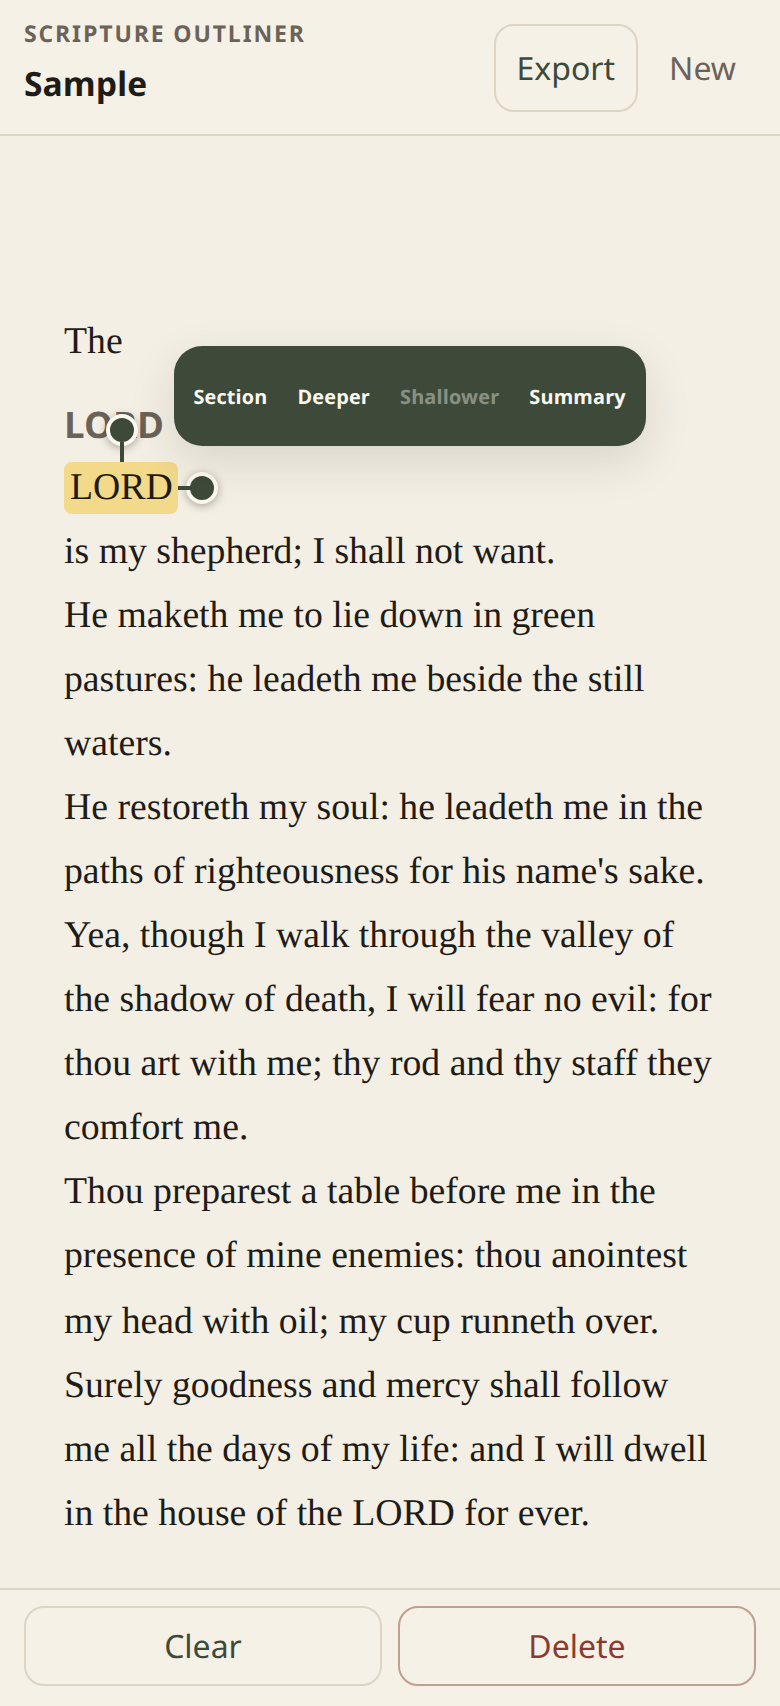
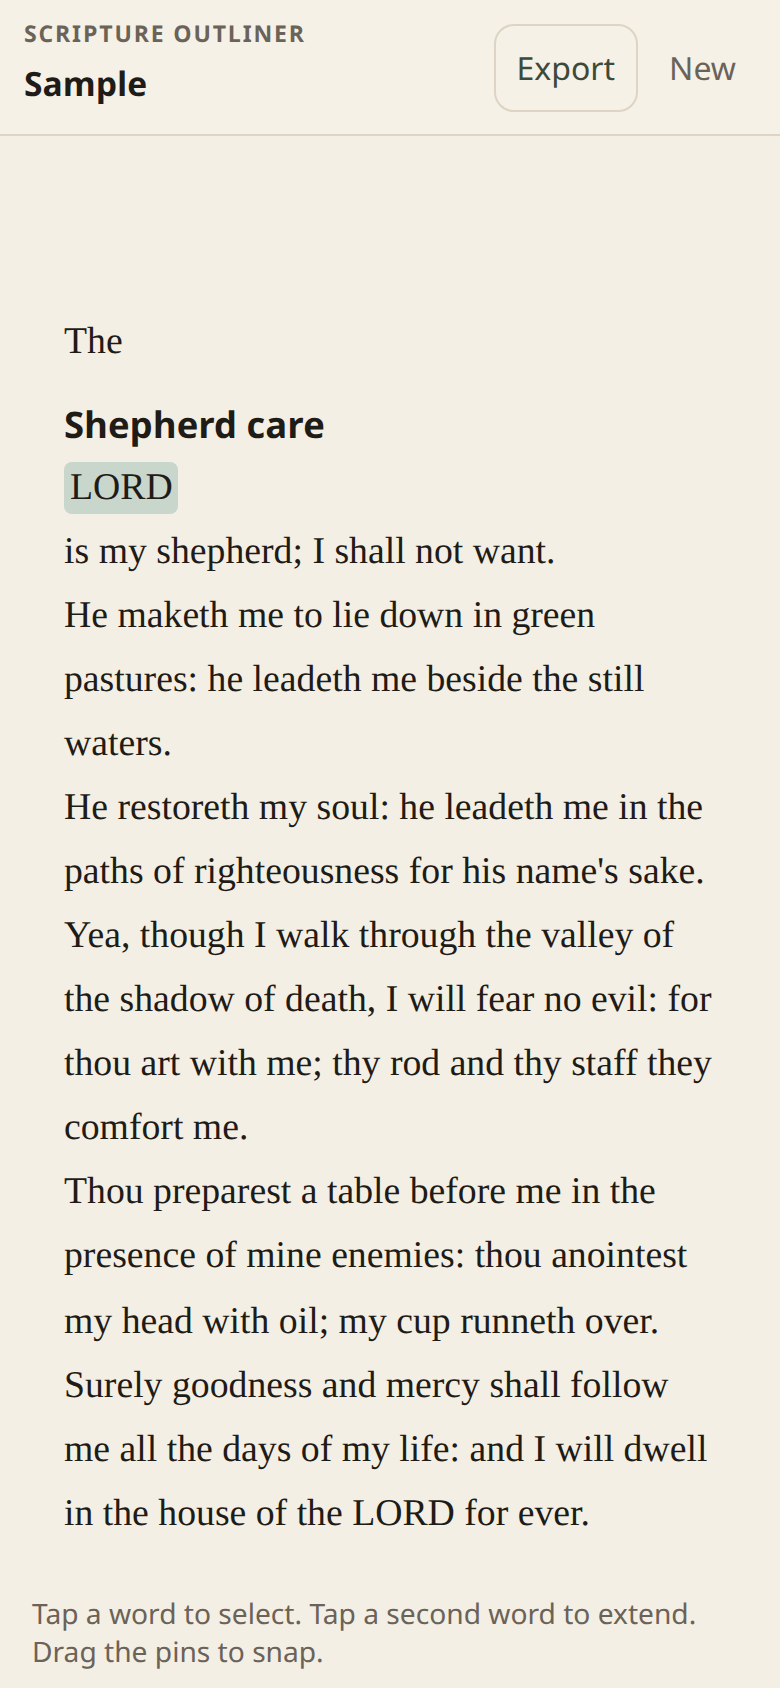
Show section headers only after a Summary (#9)
New Section and Deeper ranges no longer render empty or placeholder headers. A bold header appears only when segment.summary is non-empty.

diff --git a/src/segments.ts b/src/segments.ts
@@ -286,8 +286,9 @@ export function outlineForest(segments: readonly Segment[]): OutlineNode[] {
 }
 
 /**
- * Flatten the passage into headers and word runs. Word-run `depth` is the
- * containing segment's depth, or -1 when the words are not inside a section.
+ * Flatten the passage into headers and word runs. Headers are omitted when
+ * `segment.summary` is empty. Word-run `depth` is the containing segment's
+ * depth, or -1 when the words are not inside a section.
  */
 export function passageParts(
   wordCount: number,
@@ -314,7 +315,9 @@ export function passageParts(
           depth,
         });
       }
-      parts.push({ kind: "header", segment: node.segment });
+      if (segmentHasHeader(node.segment)) {
+        parts.push({ kind: "header", segment: node.segment });
+      }
       walk(node.children, node.segment.start, node.segment.end, node.segment.depth);
       cursor = node.segment.end + 1;
     }
@@ -356,12 +359,17 @@ export function snippet(
   return `${slice.slice(0, maxWords).join(" ")}…`;
 }
 
+/** True when the range should show a bold header (non-empty summary). */
+export function segmentHasHeader(segment: Segment): boolean {
+  return segment.summary.trim().length > 0;
+}
+
 export function headerLabel(
   words: readonly { text: string }[],
   segment: Segment,
 ): { text: string; placeholder: boolean } {
   const text = segment.summary.trim();
-  if (text.length > 0) {
+  if (segmentHasHeader(segment)) {
     return { text, placeholder: false };
   }
   return {

diff --git a/src/app.ts b/src/app.ts
@@ -11,7 +11,6 @@ import {
   createDocument,
   createSegment,
   exactSegment,
-  headerLabel,
   highlightDepthForWord,
   innermostCoveringSegment,
   insertSegment,
@@ -228,7 +227,7 @@ export function mount(root: HTMLElement): void {
     for (const part of parts) {
       switch (part.kind) {
         case "header": {
-          refs.passage.append(sectionHeader(current, part.segment));
+          refs.passage.append(sectionHeader(part.segment));
           break;
         }
         case "words": {
@@ -891,21 +890,14 @@ function shellHtml(): string {
   `;
 }
 
-function sectionHeader(
-  doc: Document,
-  segment: Document["segments"][number],
-): HTMLElement {
+function sectionHeader(segment: Document["segments"][number]): HTMLElement {
   const level = Math.min(6, Math.max(2, segment.depth + 2));
   const el = document.createElement(`h${level}`);
   el.className = "section-header";
   el.dataset.depth = String(segment.depth);
   el.dataset.segmentId = segment.id;
   el.setAttribute("data-testid", "section-header");
-  const label = headerLabel(doc.passage.words, segment);
-  el.textContent = label.text;
-  if (label.placeholder) {
-    el.dataset.placeholder = "true";
-  }
+  el.textContent = segment.summary.trim();
   return el;
 }
 

diff --git a/src/styles.css b/src/styles.css
@@ -314,10 +314,6 @@ button.danger {
   padding-left: calc(6 * var(--indent));
 }
 
-.section-header[data-placeholder="true"] {
-  color: var(--muted);
-}
-
 .section-header[aria-current="true"] {
   text-decoration: underline;
   text-decoration-thickness: 2px;

diff --git a/.cursor/skills/verify-scripture-outliner/features/section-deeper-summary.md b/.cursor/skills/verify-scripture-outliner/features/section-deeper-summary.md
@@ -1,19 +1,19 @@
 # Section, deeper, and summary
 
-With a selection, the user marks a depth-0 **Section**, nests with **Deeper** / **Shallower**, or writes a **Summary** heading for that range. Headers appear in the passage. Nothing is generated.
+With a selection, the user marks a depth-0 **Section**, nests with **Deeper** / **Shallower**, or writes a **Summary** heading for that range. A header appears only after a non-empty Summary. Nothing is generated.
 
 ## Sub-features
 
-- `section-create` adds a depth-0 bold header above the current selection.
-- `deeper-create` adds a nested header (depth 1) for an inner selection.
-- `summary-write` opens the dialog, saves typed text, and shows it on the header.
+- `section-create` marks a depth-0 range. No header is created or shown.
+- `deeper-create` nests an inner range (depth 1). No header until that range has a Summary.
+- `summary-write` opens the dialog, saves typed text, and shows a bold header for that range.
 - `segment-delete` removes the segment that exactly matches the selection.
 
 ## How to get to it (user POV)
 
 - Select a word range in the text.
 - Choose **Section**, **Deeper**, **Shallower**, or **Summary** on the toolbar attached to the highlight (primary). Clear / Delete stay on the sticky bar.
-- Tap a header to reselect its range.
+- After a Summary, tap the header to reselect its range.
 - Choose **Delete** when the selection matches a segment exactly.
 
 ## Driving it with verify-so
@@ -23,15 +23,15 @@ Preconditions:
 - Sample loaded.
 - No segments yet.
 
-- **Section.** Select words 1–6, choose **Section**. Run `page.getByTestId("word").nth(1).click()`, `page.getByTestId("word").nth(6).click()`, `page.getByTestId("action-section").click()`. One `section-header` with `data-depth="0"`. Empty summary still shows a bold placeholder snippet (`data-placeholder="true"`).
-- **Deeper.** Shrink to an inner word then extend inside the section, choose **Deeper**. Run `page.getByTestId("word").nth(3).click()`, `page.getByTestId("word").nth(5).click()`, `page.getByTestId("action-deeper").click()`. A second `section-header` has `data-depth="1"`.
-- **Summary.** With a selection, choose **Summary**, type `Shepherd care`, choose **Save**. Run `page.getByTestId("action-summary").click()`, `page.getByTestId("summary-field").fill("Shepherd care")`, `page.getByTestId("summary-save").click()`. A `section-header` contains that text and is not a placeholder. The dialog is closed.
-- **Delete.** Reselect the exact section range, choose **Delete**. Run `page.getByTestId("action-delete").click()`. That header is gone. **Delete** is disabled when the selection is not an exact segment.
-- **Proof.** `drive.mjs section-deeper-summary` writes `evidence/section-deeper-summary/outline.png` showing at least two depths and the saved summary.
+- **Section.** Select words 1–6, choose **Section**. Run `page.getByTestId("word").nth(1).click()`, `page.getByTestId("word").nth(6).click()`, `page.getByTestId("action-section").click()`. Zero `section-header` nodes. **Delete** is enabled (exact segment). Capture `after-section.png`.
+- **Deeper.** Shrink to an inner word then extend inside the section, choose **Deeper**. Run `page.getByTestId("word").nth(3).click()`, `page.getByTestId("word").nth(5).click()`, `page.getByTestId("action-deeper").click()`. Still zero `section-header` nodes.
+- **Summary.** With the inner selection, choose **Summary**, type `Shepherd care`, choose **Save**. Run `page.getByTestId("action-summary").click()`, `page.getByTestId("summary-field").fill("Shepherd care")`, `page.getByTestId("summary-save").click()`. One `section-header` at `data-depth="1"` contains that text. The dialog is closed. Choose **Clear**, then capture `after-summary.png`.
+- **Delete.** Reselect the exact inner range, choose **Delete**. Run `page.getByTestId("action-delete").click()`. That header is gone. **Delete** is disabled when the selection is not an exact segment.
+- **Proof.** `drive.mjs section-deeper-summary` writes `evidence/section-deeper-summary/after-section.png` (no header) and `after-summary.png` (bold header after Summary).
 
 ## Gotchas
 
-- **Summary** on a new range also creates a segment (depth from `suggestedDepth`). Assert the header text, not only that the dialog closed.
+- **Summary** on a new range also creates a segment (depth from `suggestedDepth`) and is the only action that shows a header. Assert the header text, not only that the dialog closed.
 - **Delete** no-ops unless the selection exactly matches a segment. Partial overlaps do not enable a useful delete.
 - Choosing **Section** on an existing exact segment sets depth 0 instead of duplicating the header.
 - **Shallower** is disabled when there is no exact segment or the segment is already depth 0.

diff --git a/.cursor/skills/verify-scripture-outliner/features/inline-outline.md b/.cursor/skills/verify-scripture-outliner/features/inline-outline.md
@@ -7,14 +7,14 @@ The passage is the outline. Section summaries render as bold headers above their
 - `header-inline` shows a bold depth-0 header in the passage above the section body.
 - `nested-indent` shows a depth-1 header on its own line, indented under the parent.
 - `depth-two` shows a depth-2 header indented further than the subsection.
-- `placeholder-header` keeps an empty summary visible as a bold snippet of the range.
+- `summary-header-only` shows no header after Section/Deeper until a non-empty Summary is saved.
 
 ## How to get to it (user POV)
 
 - Load the sample (or import text).
 - Select a wide range and choose **Section**.
 - Select an inner range and choose **Deeper**. Repeat on a still-inner range for depth 2.
-- Optional: **Summary** to replace placeholder snippets with typed headings.
+- **Summary** after each mark so the bold header appears.
 
 ## Driving it with verify-so
 
@@ -22,7 +22,7 @@ Preconditions:
 
 - Sample loaded. Word id `0` is `The`. Words `0–24` are the first two verses (`The` … `waters.`). Words `9–24` are the second verse. Words `18–24` are `he leadeth me beside the still waters.`
 
-- **Section header.** Select `data-word-id` 0 then 24, choose **Section**, then **Summary** `The LORD is shepherd`. Run `page.locator('[data-word-id="0"]').click()`, `page.locator('[data-word-id="24"]').click()`, `page.getByTestId("action-section").click()`, fill and save summary. One `section-header[data-depth="0"]` is visible in `passage`, bold, above the body words.
+- **Section header.** Select `data-word-id` 0 then 24, choose **Section**. No `section-header` yet. Then **Summary** `The LORD is shepherd`. Run `page.locator('[data-word-id="0"]').click()`, `page.locator('[data-word-id="24"]').click()`, `page.getByTestId("action-section").click()`, fill and save summary. One `section-header[data-depth="0"]` is visible in `passage`, bold, above the body words.
 - **Subsection.** Tap word 9 (shrinks the selected section to that word), tap word 24, choose **Deeper**, **Summary** `Green pastures`. A `section-header[data-depth="1"]` sits on its own line with greater left padding than depth 0.
 - **Subsubsection.** Tap word 18, tap word 24, choose **Deeper**, **Summary** `Still waters`. A `section-header[data-depth="2"]` is present. Depths include `"0"`, `"1"`, and `"2"`.
 - **Clear chrome.** Choose **Clear** so pins and the toolbar do not cover headers.
@@ -31,7 +31,6 @@ Preconditions:
 ## Gotchas
 
 - Tapping a word inside an already-selected covering segment shrinks to that word (so you can mark an inner range). Do not tap a word outside the parent if you intend to nest.
-- Headers rebuild the passage DOM. Wait for `section-header` after each mark before asserting counts.
-- Placeholder headers use `data-placeholder="true"` and a snippet of the range; after Summary that attribute is gone.
+- Headers rebuild the passage DOM. Wait for `section-header` after each **Summary** save, not after Section/Deeper.
 - There is no outline list and no view toggle. Do not look for `outline-row` or `view-split`.
 - Inner overflow does not expand a `fullPage` screenshot. Set the passage pane `scrollTop` to 0 before capturing nested headers.

diff --git a/README.md b/README.md
@@ -58,7 +58,7 @@ Install and the service worker require a secure context: `localhost` or HTTPS.
 
 1. Paste text, or tap **Load sample**.
 2. Tap a word to select it. Tap a second word to extend the range. Drag the two pins; they snap to word edges only.
-3. **Section** marks a depth-0 heading for the range. **Deeper** / **Shallower** change nesting. **Summary** edits the bold header (empty still shows a placeholder snippet).
+3. **Section** marks a depth-0 range. **Deeper** / **Shallower** change nesting. **Summary** writes the bold header. A header appears only after a non-empty Summary.
 4. Headers sit in the passage above their body. Nested ranges start on a new line and indent by depth.
 5. Reload: the current document is restored from `localStorage`. **Export** downloads Markdown with ATX headers by depth (and copies it when the clipboard is available).
 
@@ -70,8 +70,8 @@ Use device mode at **390×844** (or an actual phone). After `npm run dev`:
 2. Tap **The**. Selection is that word only; start and end pins sit on its edges.
 3. Tap **want.** The range is word-aligned (`The` … `want.`), not a character highlight.
 4. Drag the end pin onto **shepherd;** — it snaps to that word, never mid-token.
-5. **Section**, then select an inner phrase and **Deeper**. A bold header appears above the section; the subsection starts on its own indented line.
-6. **Deeper** again on a still-inner range (depth 2). **Summary**, type a sentence, Save. The header shows your text; an empty header keeps a bold snippet placeholder.
+5. **Section**, then select an inner phrase and **Deeper**. No header yet. The subsection starts on its own indented line.
+6. **Deeper** again on a still-inner range (depth 2). **Summary**, type a sentence, Save. The bold header appears above that range. Empty summaries do not render a header.
 7. Highlights use stacked shades; selection fill stays one continuous bar. There is no Text / Outline / Split toggle.
 8. Reload the tab. Title, nested segments, and summaries return.
 9. **Export** produces a `.md` file with `#` title and `##` / `###` / `####` outline headings.

diff --git a/.cursor/skills/verify-scripture-outliner/features/persistence.md b/.cursor/skills/verify-scripture-outliner/features/persistence.md
@@ -5,7 +5,7 @@ The current document (title, words, segments, selection) is saved to `localStora
 ## Sub-features
 
 - `persist-save` writes `scripture-outliner.document.v1` after import and after Section.
-- `persist-reload` restores title, words, and inline headers after a full reload.
+- `persist-reload` restores title, words, segments, and any Summary headers after a full reload.
 - `persist-new` **New** (after confirm) returns to import and clears storage.
 
 ## How to get to it (user POV)
@@ -19,10 +19,10 @@ Preconditions:
 
 - Preview origin is the launched `127.0.0.1` port (storage is origin-scoped).
 
-- **Save.** Load sample, select a word, choose **Section**. Run `drive.mjs persistence` or the same clicks. `page.evaluate(() => localStorage.getItem("scripture-outliner.document.v1"))` is non-null JSON with `passage.title` equal to `Sample` and `segments.length >= 1`. Depth is a number (legacy `0 | 1` still parses).
-- **Reload.** `page.reload()`. `title-input` is still `Sample`. At least one `section-header` exists. `import-view` is hidden.
+- **Save.** Load sample, select a word, choose **Section**. Run `drive.mjs persistence` or the same clicks. `page.evaluate(() => localStorage.getItem("scripture-outliner.document.v1"))` is non-null JSON with `passage.title` equal to `Sample` and `segments.length >= 1`. Depth is a number (legacy `0 | 1` still parses). Zero `section-header` nodes until Summary is saved.
+- **Summary then reload.** Write a Summary, then `page.reload()`. `title-input` is still `Sample`. The saved `section-header` exists. `import-view` is hidden.
 - **New.** Choose **New** and accept the confirm. Run `page.getByTestId("new-document").click()` with a dialog handler that accepts. `import-view` is visible. Storage key is gone.
-- **Proof.** `drive.mjs persistence` writes `evidence/persistence/reload.png` after reload, with title and an inline header still present.
+- **Proof.** `drive.mjs persistence` writes `evidence/persistence/reload.png` after reload, with title and the Summary header still present.
 
 ## Gotchas
 

diff --git a/.cursor/skills/verify-scripture-outliner/SKILL.md b/.cursor/skills/verify-scripture-outliner/SKILL.md
@@ -67,7 +67,7 @@ Stable handles (prefer `data-testid`):
 | `passage-wrap` | Passage plus pins/toolbar; top/side padding is not a word |
 | `passage` | Word stream plus inline section headers |
 | `word` | One token; also `data-word-id` |
-| `section-header` | Bold inline heading; `data-depth` is `0`+ and `data-placeholder="true"` when empty |
+| `section-header` | Bold inline heading from a non-empty summary; `data-depth` is `0`+. Absent until Summary is written |
 | `pin-start` / `pin-end` | Selection pins (`aria-label` Selection start/end) |
 | `selection-toolbar` | Hint attached to the current selection (Section / Deeper / Shallower / Summary) |
 | `action-bar` | Sticky Clear / Delete |
@@ -95,7 +95,7 @@ Proof standards:
 
 - Exercise the real click/type path. Reloading after Section is how persistence is proved, not reading the store module.
 - Capture action and resulting state (empty import → sample loaded; tap → `.selected` + visible pins).
-- Side effects: `localStorage` key `scripture-outliner.document.v1` after import; `section-header` nodes after Section/Deeper; dialog text after Summary save.
+- Side effects: `localStorage` key `scripture-outliner.document.v1` after import; no `section-header` after Section/Deeper alone; `section-header` nodes after a non-empty Summary save.
 - No mocks. This app has no backend.
 
 Seeded proof from the first skill run: `evidence/import-sample/`.
